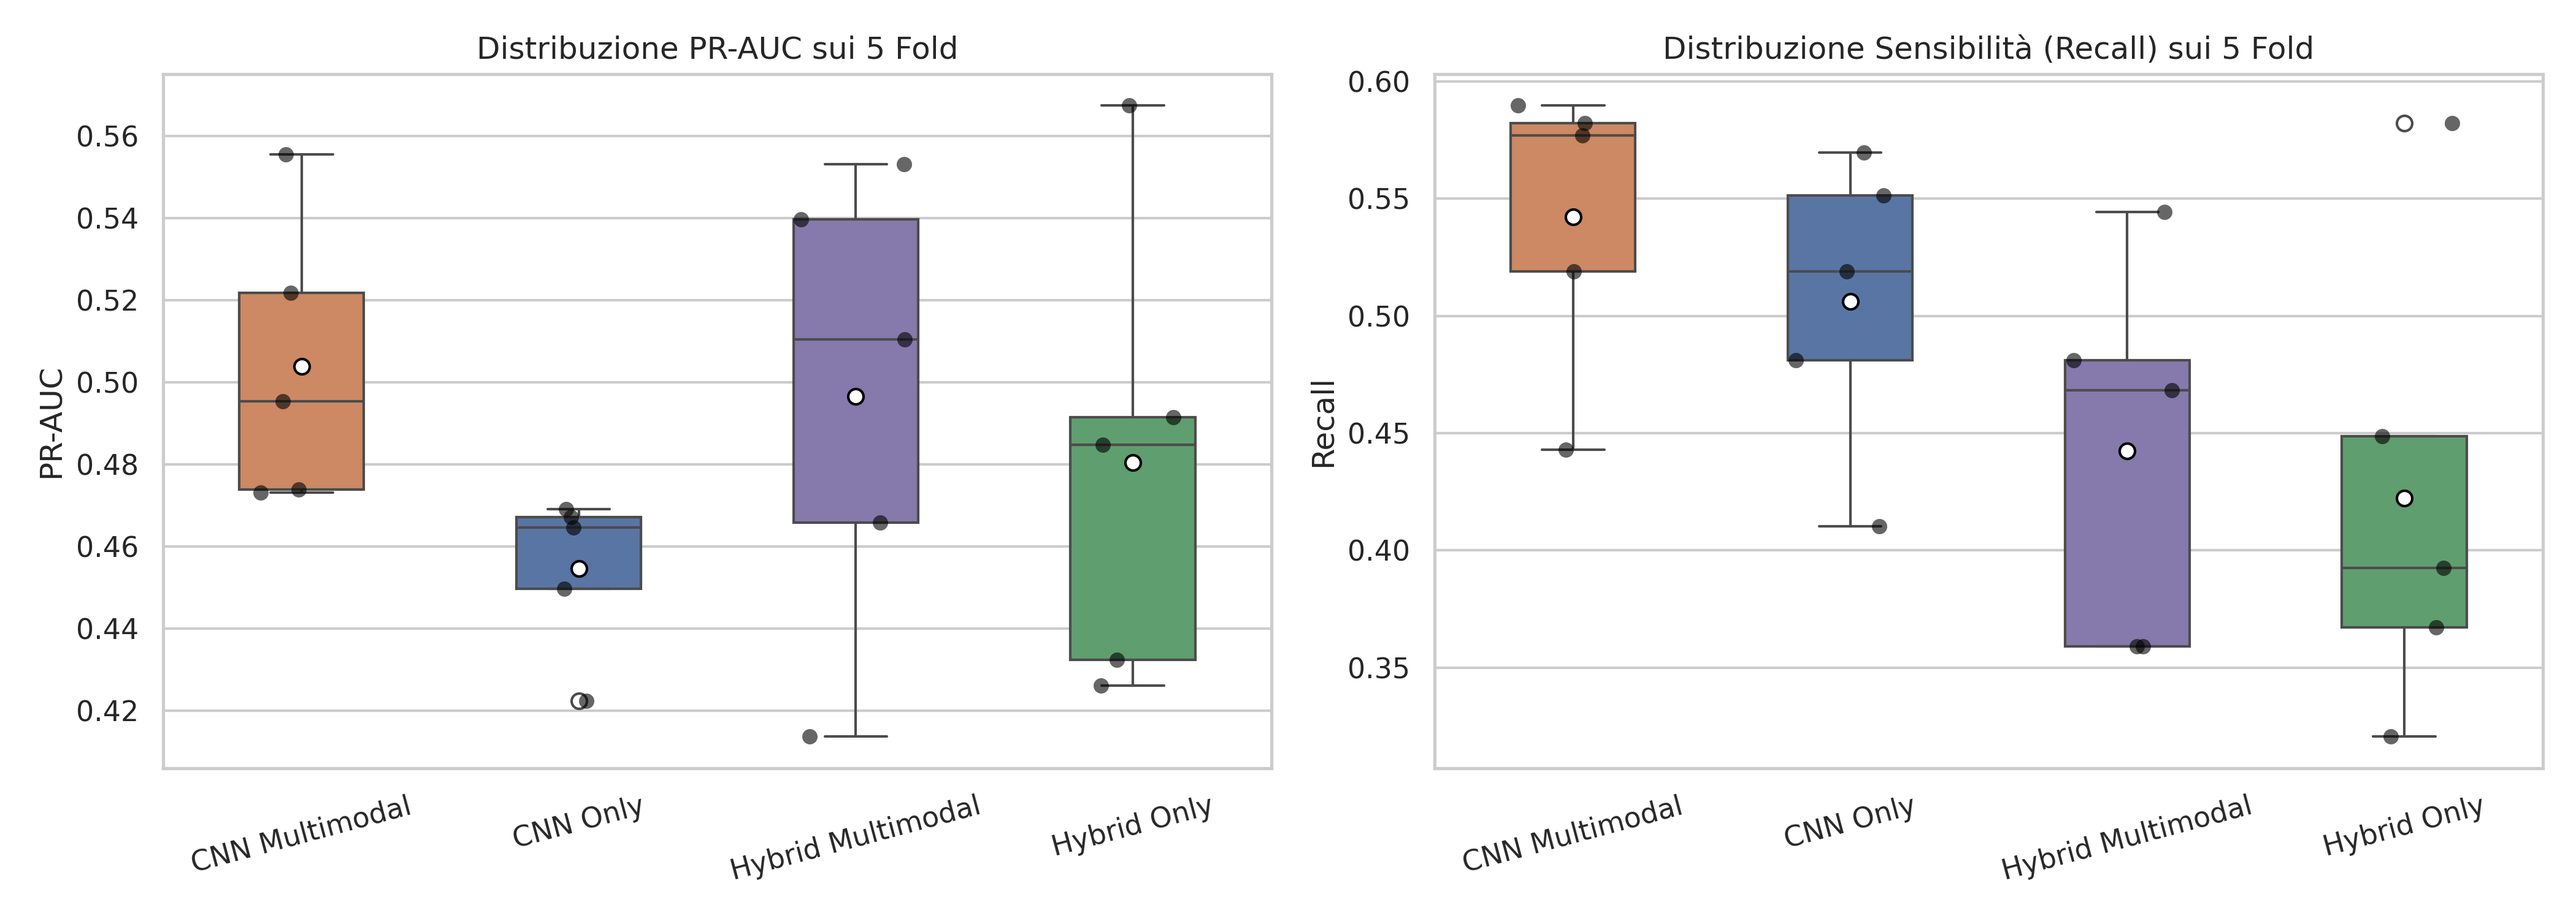
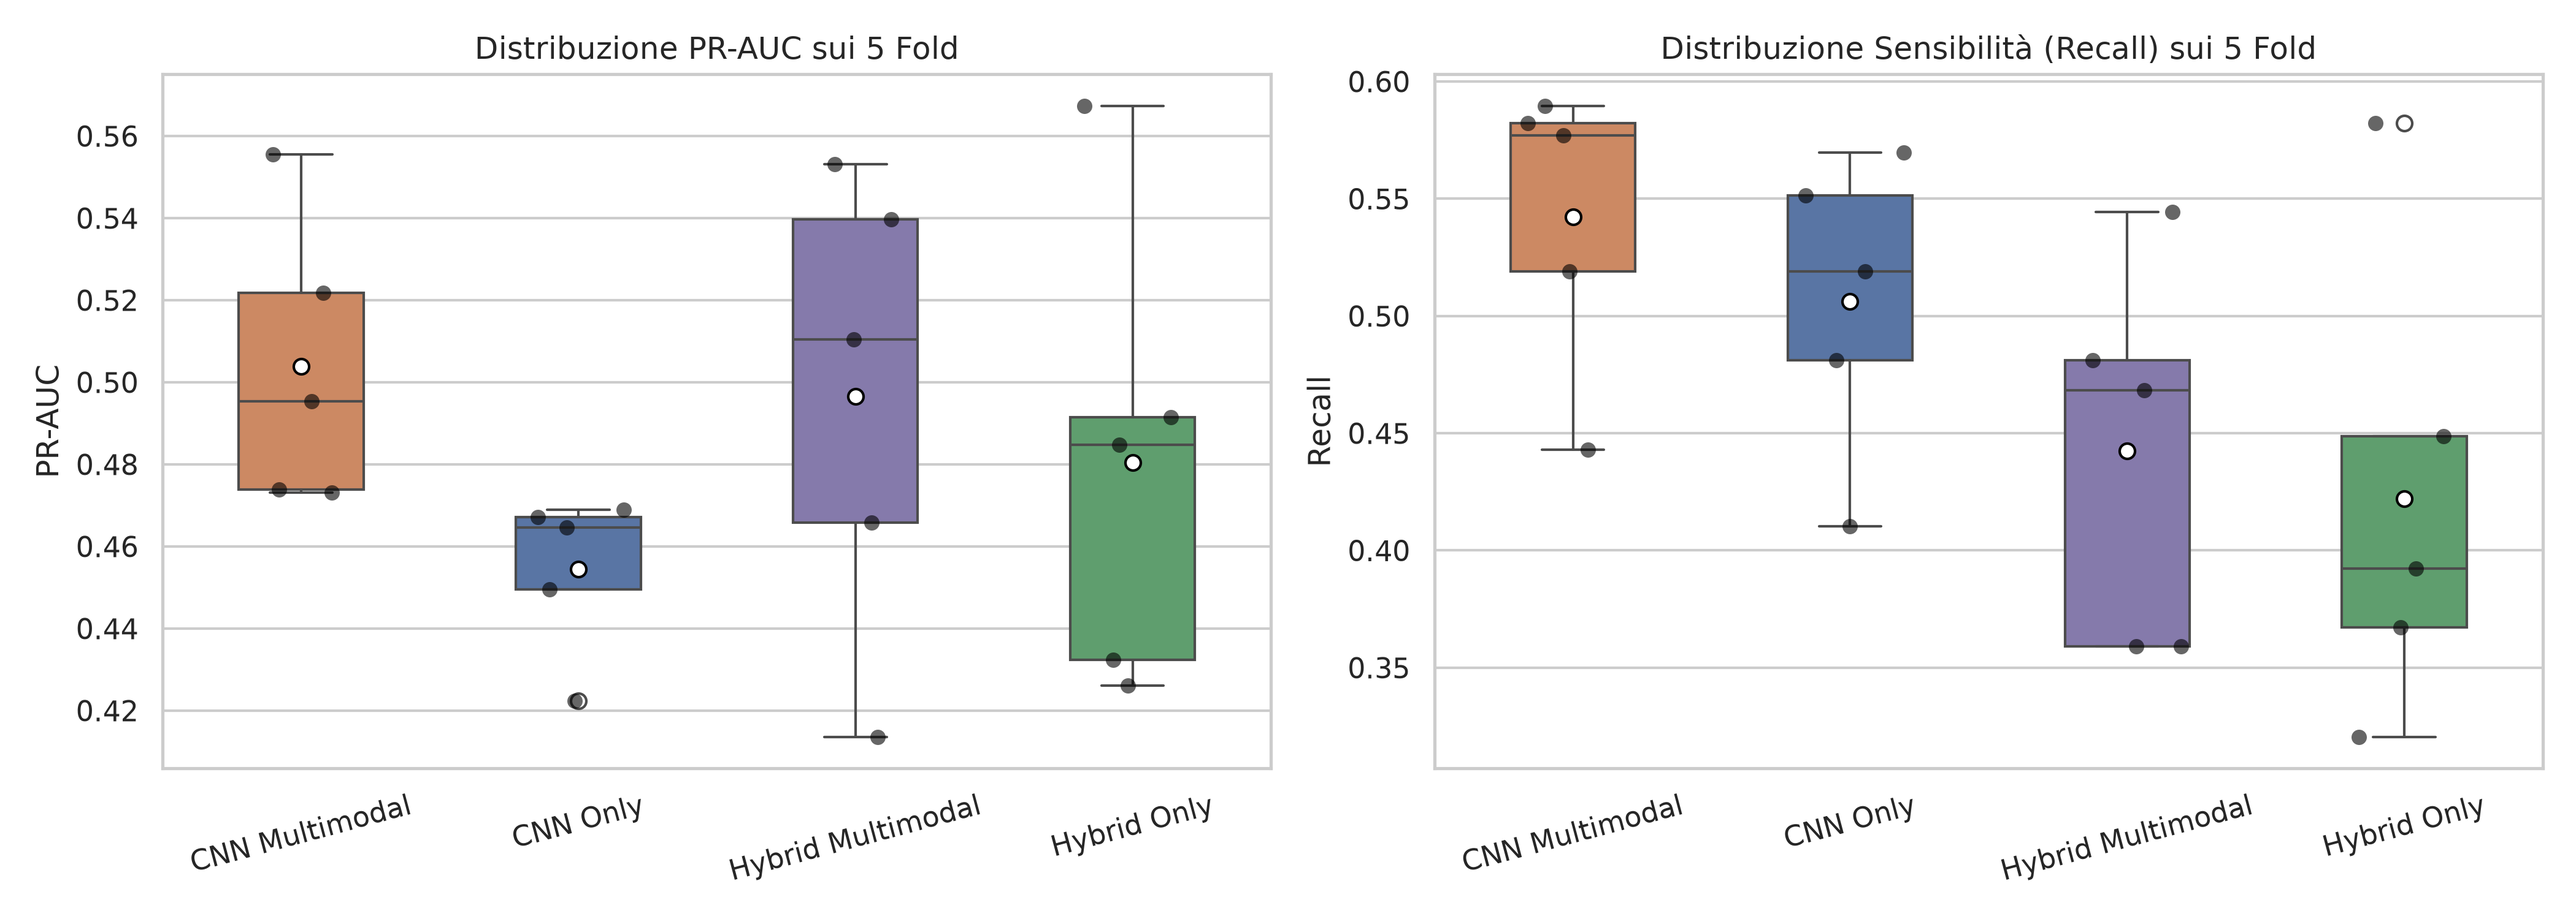
Aggiornamento grafici e metriche: CNN Only (Job 48) e CNN Multimodal (Job 49) con nuovo preprocessing TBP

diff --git a/src/training/train.py b/src/training/train.py
@@ -6,6 +6,7 @@ import pandas as pd
 import torch
 import torch.optim as optim
 from torch.optim.lr_scheduler import LinearLR, CosineAnnealingLR, SequentialLR
+from torch.utils.data import WeightedRandomSampler
 from sklearn.model_selection import StratifiedKFold
 
 from src.config import PROCESSED_ISIC_DIR
@@ -14,7 +15,6 @@ from src.preprocessing.dataset_manager import (
     DermalMultimodalDataset,
     create_multimodal_dataloader
 )
-from src.preprocessing.balancer import TabularSMOTEBalancer
 from src.models.multimodal_classifier import DermalClassifier
 from src.training.losses import BinaryFocalLoss
 from src.training.metrics import compute_clinical_metrics
@@ -74,7 +74,7 @@ def evaluate(model, dataloader, criterion, device, mode):
 def run_stratified_kfold(
     df_metadata: pd.DataFrame,
     image_dir: str = PROCESSED_ISIC_DIR,
-    case_study: str = "hybrid_multimodal",  # 'cnn_only', 'hybrid_only', 'cnn_multimodal', 'hybrid_multimodal'
+    case_study: str = "hybrid_multimodal",
     k_folds: int = 5,
     epochs: int = 30,
     warmup_epochs: int = 3,
@@ -100,33 +100,36 @@ def run_stratified_kfold(
         df_train, df_val = df_metadata.iloc[train_idx].copy(), df_metadata.iloc[val_idx].copy()
         
         # 1. Pipeline Isolamento Metadati
-        meta_processor = ClinicalMetadataProcessor()
-        X_train_clin = meta_processor.fit_transform(df_train)
-        X_val_clin = meta_processor.transform(df_val)
-        clin_dim = X_train_clin.shape[1]
+        if mode == 'multimodal':
+            meta_processor = ClinicalMetadataProcessor()
+            X_train_clin = meta_processor.fit_transform(df_train)
+            X_val_clin = meta_processor.transform(df_val)
+            clin_dim = X_train_clin.shape[1]
+        else:
+            X_train_clin, X_val_clin = None, None
+            clin_dim = 0
         
         y_train = df_train['target'].values
         train_ids = df_train['isic_id'].values
         y_val = df_val['target'].values
         val_ids = df_val['isic_id'].values
         
-        # 2. Applicazione SMOTE sul solo Training Fold (se multimodale)
-        if mode == 'multimodal':
-            smote = TabularSMOTEBalancer()
-            X_train_clin, y_train_res = smote.balance(X_train_clin, y_train)
-            if len(y_train_res) > len(train_ids):
-                extra_needed = len(y_train_res) - len(train_ids)
-                minority_ids = train_ids[y_train == 1]
-                sampled_extras = np.random.choice(minority_ids, size=extra_needed, replace=True)
-                train_ids = np.concatenate([train_ids, sampled_extras])
-            y_train = y_train_res
+        # 2. Bilanciamento delle classi reale con WeightedRandomSampler (no sintetizzazione artificiale)
+        class_counts = np.bincount(y_train)
+        class_weights = 1.0 / np.maximum(class_counts, 1)
+        sample_weights = class_weights[y_train]
+        train_sampler = WeightedRandomSampler(
+            weights=torch.DoubleTensor(sample_weights),
+            num_samples=len(sample_weights),
+            replacement=True
+        )
             
         # 3. Dataset e DataLoader
         train_ds = DermalMultimodalDataset(
             image_ids=train_ids,
             labels=y_train,
             image_dir=image_dir,
-            clinical_matrix=X_train_clin if mode == 'multimodal' else None,
+            clinical_matrix=X_train_clin,
             mode=mode,
             is_training=True
         )
@@ -134,15 +137,19 @@ def run_stratified_kfold(
             image_ids=val_ids,
             labels=y_val,
             image_dir=image_dir,
-            clinical_matrix=X_val_clin if mode == 'multimodal' else None,
+            clinical_matrix=X_val_clin,
             mode=mode,
             is_training=False
         )
         
-        train_loader = create_multimodal_dataloader(train_ds, batch_size=batch_size, shuffle=True, num_workers=4)
-        val_loader = create_multimodal_dataloader(val_ds, batch_size=batch_size, shuffle=False, num_workers=4)
+        train_loader = create_multimodal_dataloader(
+            train_ds, batch_size=batch_size, num_workers=4, sampler=train_sampler
+        )
+        val_loader = create_multimodal_dataloader(
+            val_ds, batch_size=batch_size, shuffle=False, num_workers=4
+        )
         
-        # 4. Modello, Loss fissa (BinaryFocalLoss), Ottimizzatore AdamW
+        # 4. Modello, Loss (BinaryFocalLoss), Ottimizzatore AdamW
         model = DermalClassifier(
             backbone_type=backbone_type,
             mode=mode,
@@ -150,16 +157,15 @@ def run_stratified_kfold(
             pretrained=True
         ).to(device)
         
-        #sotto: valori di alpha e gamma per primo set di addestramenti
         criterion = BinaryFocalLoss(alpha=0.25, gamma=2.0)
         optimizer = optim.AdamW(model.parameters(), lr=lr, weight_decay=1e-2)
         
-        # 5. Configurazione Warmup + Cosine Annealing Scheduler
+        # 5. Warmup + Cosine Annealing Scheduler
         warmup_sched = LinearLR(optimizer, start_factor=0.1, end_factor=1.0, total_iters=warmup_epochs)
         cosine_sched = CosineAnnealingLR(optimizer, T_max=max(1, epochs - warmup_epochs))
         scheduler = SequentialLR(optimizer, schedulers=[warmup_sched, cosine_sched], milestones=[warmup_epochs])
         
-        # 6. Variabili per Early Stopping su Val Loss e Checkpointing
+        # 6. Early Stopping e Checkpoint
         best_val_loss = float('inf')
         best_metrics = None
         patience_counter = 0
@@ -173,7 +179,6 @@ def run_stratified_kfold(
             
             print(f"  Epoca {epoch+1:02d}/{epochs:02d} [LR: {current_lr:.6f}] | TrLoss: {train_loss:.4f} | ValLoss: {val_metrics['val_loss']:.4f} | PR-AUC: {val_metrics['pr_auc']:.4f} | Recall: {val_metrics['sensitivity']:.4f}")
             
-            # Early Stopping basato sul minimo di Validation Loss
             if val_metrics["val_loss"] < best_val_loss:
                 best_val_loss = val_metrics["val_loss"]
                 best_metrics = val_metrics

diff --git a/src/preprocessing/dataset_manager.py b/src/preprocessing/dataset_manager.py
@@ -38,7 +38,6 @@ class ClinicalMetadataProcessor:
         features = df_num.columns.tolist()
         
         while len(features) > 1:
-            # Calcolo VIF per ciascuna colonna corrente
             vif_data = pd.DataFrame()
             vif_data["feature"] = features
             vif_data["VIF"] = [
@@ -58,15 +57,12 @@ class ClinicalMetadataProcessor:
         return df_num[features]
 
     def fit_transform(self, df: pd.DataFrame) -> np.ndarray:
-        # 1- Imputazione
         df_num = pd.DataFrame(self.num_imputer.fit_transform(df[self.num_cols]), columns=self.num_cols)
         df_cat = pd.DataFrame(self.cat_imputer.fit_transform(df[self.cat_cols]), columns=self.cat_cols)
         
-        # 2- Filtraggio VIF sulle sole feature numeriche
         df_num_filtered = self._compute_and_filter_vif(df_num)
         self.selected_num_cols = df_num_filtered.columns.tolist()
         
-        # 3- Scaling e One-Hot Encoding
         X_num_scaled = self.scaler.fit_transform(df_num_filtered)
         X_cat_encoded = self.encoder.fit_transform(df_cat)
         
@@ -99,48 +95,37 @@ class DermalMultimodalDataset(Dataset):
         self.mode = mode.lower()
         self.is_training = is_training
         
-        # Validazione di sicurezza della modalità prescelta
         if self.mode not in ['multimodal', 'image_only']:
             raise ValueError("La modalità del dataset deve essere impostata su 'multimodal' o 'image_only'.")
             
         if self.mode == 'multimodal' and self.clinical_matrix is None:
             raise ValueError("La modalità 'multimodal' richiede obbligatoriamente il passaggio della matrice dei metadati clinici.")
             
-        # Inizializzazione dell'Augmentor on-the-fly 
         self.augmentor = DermalImageAugmentor(target_size=target_size, is_training=self.is_training)
 
     def __len__(self):
         return len(self.image_ids)
 
     def __getitem__(self, idx):
-        # 1- Recupero dell'ID e caricamento dell'immagine fisica dal disco (data/processed/)
         img_id = self.image_ids[idx]
-        
-        # Gestione flessibile dell'estensione del file
         img_name = f"{img_id}.jpg"
         img_path = os.path.join(self.image_dir, img_name)
         
         if not os.path.exists(img_path):
             raise FileNotFoundError(f"[ERRORE DATASET] Immagine non trovata nel percorso: {img_path}")
             
-        # Lettura in formato OpenCV e conversione cromatica corretta
         img_bgr = cv2.imread(img_path)
         img_rgb = cv2.cvtColor(img_bgr, cv2.COLOR_BGR2RGB)
         
-        # 2- Applicazione dell'Augmentor
         img_tensor = self.augmentor(img_rgb)
-        
-        # 3- Recupero della label del target (0 o 1) convertito in tensore PyTorch
         label_tensor = torch.tensor(self.labels[idx], dtype=torch.long)
         
-        # 4- Restituzione condizionale in base alla modalita' selezionata
         if self.mode == 'multimodal':
             clinical_vector = self.clinical_matrix[idx]
             clinical_tensor = torch.tensor(clinical_vector, dtype=torch.float32)
             return img_tensor, clinical_tensor, label_tensor
         else:
             return img_tensor, label_tensor
-
 
 def load_and_process_metadata(csv_path: str):
     """Funzione helper per caricare e preparare i metadati clinici di ISIC."""
@@ -158,21 +143,24 @@ def load_and_process_metadata(csv_path: str):
     
     return X_clinical, y, image_ids
 
-def create_multimodal_dataloader(dataset: Dataset, batch_size: int = 4, shuffle: bool = True, num_workers: int = 2) -> DataLoader:
+def create_multimodal_dataloader(
+    dataset: Dataset, 
+    batch_size: int = 4, 
+    shuffle: bool = True, 
+    num_workers: int = 2,
+    sampler = None
+) -> DataLoader:
     """
-    Fabbrica e configura un'istanza di DataLoader PyTorch ottimizzata per l'ambiente locale.
-    
-    Parametri:
-    - dataset: Istanza di DermalMultimodalDataset (in modalità multimodal o image_only).
-    - batch_size: Numero di campioni per batch (impostato basso di default per la VM locale).
-    - shuffle: Se True, mescola i dati ad ogni epoca (fondamentale in training).
-    - num_workers: Numero di core CPU dedicati al caricamento parallelo in background.
+    Fabbrica e configura un'istanza di DataLoader PyTorch.
+    Supporta sampler esplicito (es. WeightedRandomSampler per sbilanciamento estremo).
     """
+    actual_shuffle = False if sampler is not None else shuffle
     dataloader = DataLoader(
         dataset=dataset,
         batch_size=batch_size,
-        shuffle=shuffle,
+        shuffle=actual_shuffle,
+        sampler=sampler,
         num_workers=num_workers,
-        pin_memory=True if torch.cuda.is_available() else False # Ottimizza il passaggio verso la GPU
+        pin_memory=True if torch.cuda.is_available() else False
     )
     return dataloader
